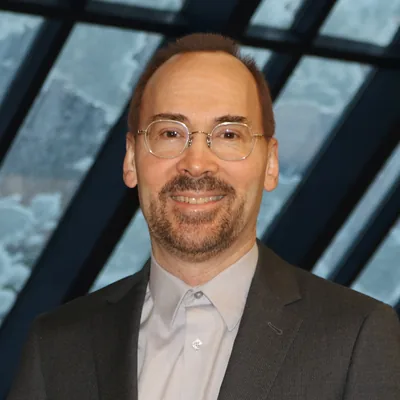
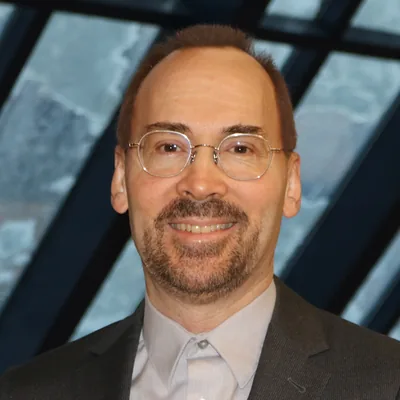
Match chair card colours to topics and tighten headshot crops
- Give the Optical MEMS Chair the cyan-blue accent and the
  Nanophotonics Chair the gold accent, matching how the two topics
  are coloured in the hero title. The General and Program Chairs
  take over the green and indigo accents.
- Recrop the Quack and Talghader headshots closer so the head fills
  about the same share of the frame as the Gylfason and Song photos.

diff --git a/index.html b/index.html
@@ -388,15 +388,15 @@
           style="text-align: center; display: flex; flex-direction: column; align-items: center; padding: 3rem 2rem;">
           <div style="position: relative; margin-bottom: 1.5rem;">
             <img src="images/gylfason.jpg" width="100" height="100" alt="Prof. Kristinn B. Gylfason — General Chair"
-              style="width: 100px; height: 100px; border-radius: 50%; object-fit: cover; border: 3px solid var(--accent-gold); box-shadow: 0 0 25px rgba(245, 158, 11, 0.35);">
+              style="width: 100px; height: 100px; border-radius: 50%; object-fit: cover; border: 3px solid #34d399; box-shadow: 0 0 25px rgba(52, 211, 153, 0.35);">
             <span
-              style="position: absolute; bottom: -4px; right: -4px; background: var(--gradient-gold); color: #070a12; width: 32px; height: 32px; border-radius: 50%; display: flex; align-items: center; justify-content: center; font-size: 0.9rem; font-weight: bold; border: 2px solid var(--bg-dark);">
+              style="position: absolute; bottom: -4px; right: -4px; background: linear-gradient(135deg, #6ee7b7 0%, #34d399 100%); color: #070a12; width: 32px; height: 32px; border-radius: 50%; display: flex; align-items: center; justify-content: center; font-size: 0.9rem; font-weight: bold; border: 2px solid var(--bg-dark);">
               <i class="fa-solid fa-crown"></i>
             </span>
           </div>
 
-          <span class="timeline-status status-upcoming"
-            style="margin-bottom: 1rem; font-size: 0.8rem; padding: 0.25rem 0.85rem;">
+          <span class="timeline-status"
+            style="margin-bottom: 1rem; font-size: 0.8rem; padding: 0.25rem 0.85rem; background: rgba(52, 211, 153, 0.15); color: #34d399; border: 1px solid rgba(52, 211, 153, 0.3);">
             General Chair
           </span>
 
@@ -419,16 +419,16 @@
         <div class="topic-card"
           style="text-align: center; display: flex; flex-direction: column; align-items: center; padding: 3rem 2rem;">
           <div style="position: relative; margin-bottom: 1.5rem;">
-            <img src="images/Quack_Niels.jpg" width="100" height="100" alt="Prof. Niels Quack — Program Chair"
-              style="width: 100px; height: 100px; border-radius: 50%; object-fit: cover; border: 3px solid var(--accent-cyan); box-shadow: 0 0 25px rgba(56, 189, 248, 0.35);">
+            <img src="images/web/Quack_Niels-400.webp" width="100" height="100" alt="Prof. Niels Quack — Program Chair"
+              style="width: 100px; height: 100px; border-radius: 50%; object-fit: cover; border: 3px solid #818cf8; box-shadow: 0 0 25px rgba(129, 140, 248, 0.35);">
             <span
-              style="position: absolute; bottom: -4px; right: -4px; background: var(--gradient-primary); color: #070a12; width: 32px; height: 32px; border-radius: 50%; display: flex; align-items: center; justify-content: center; font-size: 0.9rem; font-weight: bold; border: 2px solid var(--bg-dark);">
+              style="position: absolute; bottom: -4px; right: -4px; background: linear-gradient(135deg, #818cf8 0%, #6366f1 100%); color: #070a12; width: 32px; height: 32px; border-radius: 50%; display: flex; align-items: center; justify-content: center; font-size: 0.9rem; font-weight: bold; border: 2px solid var(--bg-dark);">
               <i class="fa-solid fa-microchip"></i>
             </span>
           </div>
 
-          <span class="timeline-status status-event"
-            style="margin-bottom: 1rem; font-size: 0.8rem; padding: 0.25rem 0.85rem;">
+          <span class="timeline-status"
+            style="margin-bottom: 1rem; font-size: 0.8rem; padding: 0.25rem 0.85rem; background: rgba(129, 140, 248, 0.15); color: #818cf8; border: 1px solid rgba(129, 140, 248, 0.3);">
             Program Chair
           </span>
 
@@ -453,15 +453,15 @@
           <div style="position: relative; margin-bottom: 1.5rem;">
             <img src="images/web/Joseph_Talghader-400.webp" width="100" height="100"
               alt="Prof. Joseph Talghader — Optical MEMS Chair"
-              style="width: 100px; height: 100px; border-radius: 50%; object-fit: cover; border: 3px solid #818cf8; box-shadow: 0 0 25px rgba(129, 140, 248, 0.35);">
+              style="width: 100px; height: 100px; border-radius: 50%; object-fit: cover; border: 3px solid var(--accent-cyan); box-shadow: 0 0 25px rgba(56, 189, 248, 0.35);">
             <span
-              style="position: absolute; bottom: -4px; right: -4px; background: linear-gradient(135deg, #818cf8 0%, #6366f1 100%); color: #070a12; width: 32px; height: 32px; border-radius: 50%; display: flex; align-items: center; justify-content: center; font-size: 0.9rem; font-weight: bold; border: 2px solid var(--bg-dark);">
+              style="position: absolute; bottom: -4px; right: -4px; background: var(--gradient-primary); color: #070a12; width: 32px; height: 32px; border-radius: 50%; display: flex; align-items: center; justify-content: center; font-size: 0.9rem; font-weight: bold; border: 2px solid var(--bg-dark);">
               <i class="fa-solid fa-sliders"></i>
             </span>
           </div>
 
-          <span class="timeline-status"
-            style="margin-bottom: 1rem; font-size: 0.8rem; padding: 0.25rem 0.85rem; background: rgba(129, 140, 248, 0.15); color: #818cf8; border: 1px solid rgba(129, 140, 248, 0.3);">
+          <span class="timeline-status status-event"
+            style="margin-bottom: 1rem; font-size: 0.8rem; padding: 0.25rem 0.85rem;">
             Optical MEMS Chair
           </span>
 
@@ -481,15 +481,15 @@
           <div style="position: relative; margin-bottom: 1.5rem;">
             <img src="images/web/Young_Min_Song-400.webp" width="100" height="100"
               alt="Prof. Young Min Song — Nanophotonics Chair"
-              style="width: 100px; height: 100px; border-radius: 50%; object-fit: cover; border: 3px solid #34d399; box-shadow: 0 0 25px rgba(52, 211, 153, 0.35);">
+              style="width: 100px; height: 100px; border-radius: 50%; object-fit: cover; border: 3px solid var(--accent-gold); box-shadow: 0 0 25px rgba(245, 158, 11, 0.35);">
             <span
-              style="position: absolute; bottom: -4px; right: -4px; background: linear-gradient(135deg, #6ee7b7 0%, #34d399 100%); color: #070a12; width: 32px; height: 32px; border-radius: 50%; display: flex; align-items: center; justify-content: center; font-size: 0.9rem; font-weight: bold; border: 2px solid var(--bg-dark);">
+              style="position: absolute; bottom: -4px; right: -4px; background: var(--gradient-gold); color: #070a12; width: 32px; height: 32px; border-radius: 50%; display: flex; align-items: center; justify-content: center; font-size: 0.9rem; font-weight: bold; border: 2px solid var(--bg-dark);">
               <i class="fa-solid fa-atom"></i>
             </span>
           </div>
 
-          <span class="timeline-status"
-            style="margin-bottom: 1rem; font-size: 0.8rem; padding: 0.25rem 0.85rem; background: rgba(52, 211, 153, 0.15); color: #34d399; border: 1px solid rgba(52, 211, 153, 0.3);">
+          <span class="timeline-status status-upcoming"
+            style="margin-bottom: 1rem; font-size: 0.8rem; padding: 0.25rem 0.85rem;">
             Nanophotonics Chair
           </span>
 
